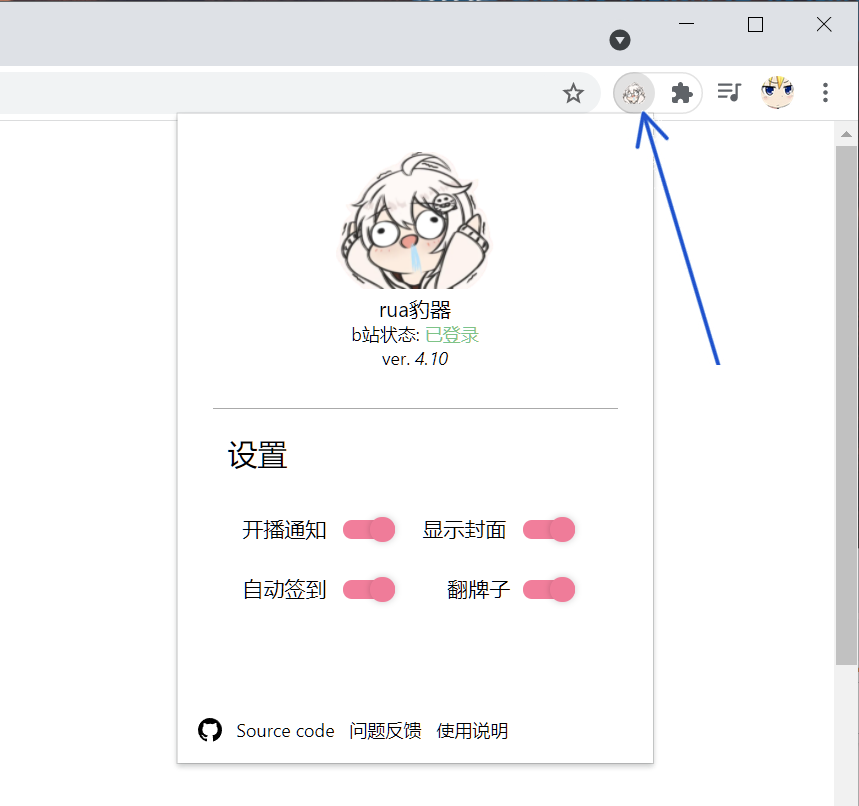
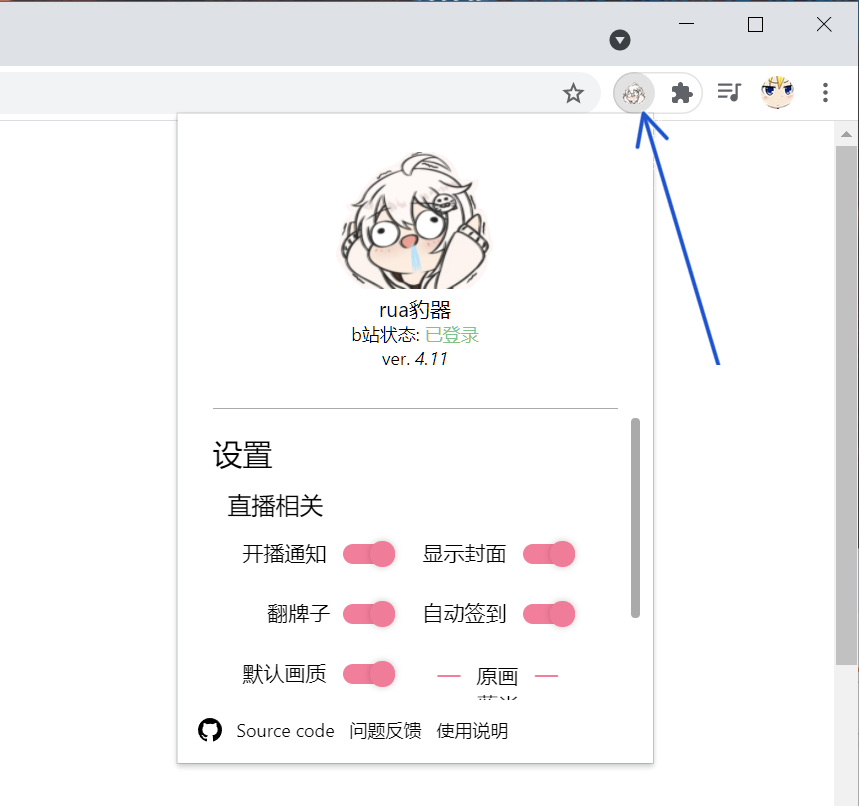
ver 4.11

diff --git a/js/background.js b/js/background.js
@@ -3,6 +3,7 @@
  * */
 var NOTIFICATION_PUSH;
 var checkin;
+var exchangeBcoin;
 var CHECKIN_ON;
 var IMAGE_NOTIFICATION;
 var BCOIN;
@@ -17,27 +18,7 @@ var P_SESS = SESSDATA;
 var FOLLOWING_LIST = new FollowingMemberList();
 var FOLLOWING_LIST_TEMP = new FollowingMemberList();
 var winIDList = new WindowIDList();
-//var replyPayload = new ReplyPayload();
 var p = 0;
-
-// https://api.bilibili.com/x/vip/privilege/receive b币兑换API
-// exchange B coin api.
-// form contain: type: 1 === B coin
-//               | type: 2 === shop
-//               & csrf
-// request method: post
-// header: cookie
-// form type is not web form
-
-// https://api.live.bilibili.com/xlive/web-ucenter/v1/labs/EditPlugs Dark mode API
-// form contain: key: dark
-//               status: 1 on, 0 off
-//               csrf: JCT
-//               csrf_token: JCT
-//               visit_id: empty
-// request method: post
-// header: cookie
-
 
 chrome.windows.getAll(function (wins){for (let i = 0; i < wins.length; i++) winIDList.push(wins[i].id);});
 chrome.windows.onCreated.addListener(function (win){winIDList.push(win.id);});
@@ -49,7 +30,7 @@ chrome.runtime.onInstalled.addListener(function (obj){
     chrome.storage.sync.set({"medal": true}, function(){});
     chrome.storage.sync.set({"checkIn": true}, function(){CHECKIN_ON = true;});
     chrome.storage.sync.set({"imageNotice": false}, function(){IMAGE_NOTIFICATION = false;});
-    chrome.storage.sync.set({"bcoin": false}, function(){BCOIN = false;});
+    chrome.storage.sync.set({"bcoin": true}, function(){BCOIN = true;});
     chrome.storage.sync.set({"qn": false}, function(){QN = false;});
     chrome.storage.sync.set({"qnvalue": "原画"}, function(){});
     chrome.tabs.create({url: "./readme.html"});
@@ -58,9 +39,15 @@ chrome.runtime.onInstalled.addListener(function (obj){
 chrome.storage.onChanged.addListener(function (changes, namespace) {
     for (let [key, {oldValue, newValue}] of Object.entries(changes)) {
         if(key === "notification") NOTIFICATION_PUSH = newValue;
-        if(key === "checkIn") CHECKIN_ON = newValue;
+        if(key === "checkIn") {
+            CHECKIN_ON = newValue;
+            if(CHECKIN_ON) checkIn();
+        }
         if(key === "imageNotice")IMAGE_NOTIFICATION = newValue;
-        if(key === "b-coin")BCOIN = newValue;
+        if(key === "bcoin"){
+            BCOIN = newValue;
+            if(BCOIN) queryBcoin();
+        }
     }
 });
 
@@ -252,6 +239,7 @@ setInterval(reloadCookies, 5000);
 function scheduleCheckIn(){
     checkIn();
     checkin = setInterval(checkIn, 43200000);
+    exchangeBcoin = setInterval(queryBcoin, 43200000);
 }
 
 function reloadCookies() {
@@ -265,6 +253,7 @@ function reloadCookies() {
                         // if not log in then stop update liver stream info.
                         console.log("Session info does not exist, liver stream info listener cleared.");
                         clearInterval(checkin);
+                        clearInterval(exchangeBcoin);
                     }
                     if (UUID !== -1 && SESSDATA !== -1 && UUID !== P_UID && SESSDATA !== P_SESS) {
                         // log in info changed then load following list and start update liver stream info every 3 min.
@@ -368,7 +357,18 @@ function exchangeBCoin(){
         dataType: "json",
         json: "callback",
         success: function (json) {
-            console.log(json)
+            console.log(json);
+            chrome.notifications.create(Math.random()+"", {
+                    type: "basic",
+                    iconUrl: "./images/abaaba.png",
+                    title: "本月大会员的5B币兑换成功！",
+                    message:""
+                }, function (id) {
+                    setTimeout(function (){
+                        chrome.notifications.clear(id);
+                    },3000);
+                }
+            );
         },
         error: function (msg) {
             console.log(msg.toString());
@@ -378,23 +378,25 @@ function exchangeBCoin(){
 }
 
 function queryBcoin(){
-    $.ajax({
-        url: "https://api.bilibili.com/x/vip/privilege/my",
-        type: "GET",
-        dataType: "json",
-        json: "callback",
-        success: function (json) {
-            if (json["code"] === 0){
-                console.log(json["data"]["list"]["0"])
+    if(BCOIN){
+        $.ajax({
+            url: "https://api.bilibili.com/x/vip/privilege/my",
+            type: "GET",
+            dataType: "json",
+            json: "callback",
+            success: function (json) {
+                if (json["code"] === 0){
+                    if(json["data"]["list"]["0"]["type"]===1&&json["data"]["list"]["0"]["state"]===0)
+                        exchangeBCoin();
+                }
+            },
+            error: function (msg) {
+                console.log(msg.toString());
+                setTimeout(queryBcoin,10000);
             }
-        },
-        error: function (msg) {
-            console.log(msg.toString());
-            setTimeout(queryBcoin,10000);
-        }
-    });
+        });
+    }
 }
-queryBcoin();
 
 // function getUnread(){
 //     let totalUnread = 0;

diff --git a/js/PushHost.js b/js/PushHost.js
@@ -13,8 +13,18 @@ chrome.webRequest.onBeforeSendHeaders.addListener(function (details) {
         for (let header in headers) {
             if (headers[header].name === "Cookie") {
                 headers[header].value = ""
-                return {requestHeaders: details.requestHeaders};
             }
         }
+    return {requestHeaders: details.requestHeaders};
     }, {urls: ["https://api.live.bilibili.com/room/v1/Room/get_status_info_by_uids"]}, ['blocking', "requestHeaders", "extraHeaders"]
+);
+chrome.webRequest.onBeforeSendHeaders.addListener(function (details) {
+        let headers = details["requestHeaders"];
+        for (let header in headers) {
+            if(headers[header].name === "Origin"){
+                headers[header].value = "https://www.bilibili.com/"
+            }
+        }
+        return {requestHeaders: details.requestHeaders};
+    }, {urls: ["https://api.bilibili.com/x/vip/privilege/receive", "https://api.live.bilibili.com/room/v1/Room/get_status_info_by_uids"]}, ['blocking', "requestHeaders", "extraHeaders"]
 );

diff --git a/readme.html b/readme.html
@@ -23,7 +23,8 @@
         <li>直播牌子自动切换。</li>
         <li>自动签到。</li>
         <li>弹幕姬表情选取发送框（目前仅支持八儿力老师的直播间）。</li>
-        <li>默认直播画质</li>
+        <li>默认直播画质。</li>
+        <li>大会员B币兑换。</li>
     </ul>
     <h2>怎么用</h2>
     <p>在b站登录自己的账号后，插件所有功能就会自动运行。</p>
@@ -55,6 +56,7 @@
     <h3>ver 4.11</h3>
     <ul>
         <li>添加了默认画质的设置。</li>
+        <li>添加了大会员B币兑换。</li>
         <li>修复了一些微小的问题。</li>
     </ul>
     <h3>ver 4.10</h3>

diff --git a/js/popup.js b/js/popup.js
@@ -15,7 +15,6 @@ var qnvalue = 0;
 var qn;
 var UUID = -2;
 function en(e){e.preventDefault()}
-buttonDisabled(false, setting5);
 chrome.runtime.connect({ name: "popup" });
 function updateUID(){
     if(typeof chrome.app.isInstalled!=="undefined"){

diff --git a/README.md b/README.md
@@ -36,6 +36,8 @@ rua豹使人快乐，rua了又rua！<br>
 - 通知模式（大图/普通）
 - 开关自动签到
 - 开关自动切换粉丝勋章
+- 默认直播画质
+- 大会员B币兑换
 
 ### 移动端
 下载支持插件的浏览器（如kiwi）并在浏览器安装即可。（暂不支持iOS）
@@ -50,6 +52,7 @@ rua豹使人快乐，rua了又rua！<br>
 ## 版本记录
 ### ver 4.11
 - 添加了默认画质的设置。
+- 添加了大会员B币兑换。  
 - 修复了一些微小的问题。
 
 ### ver 4.10
